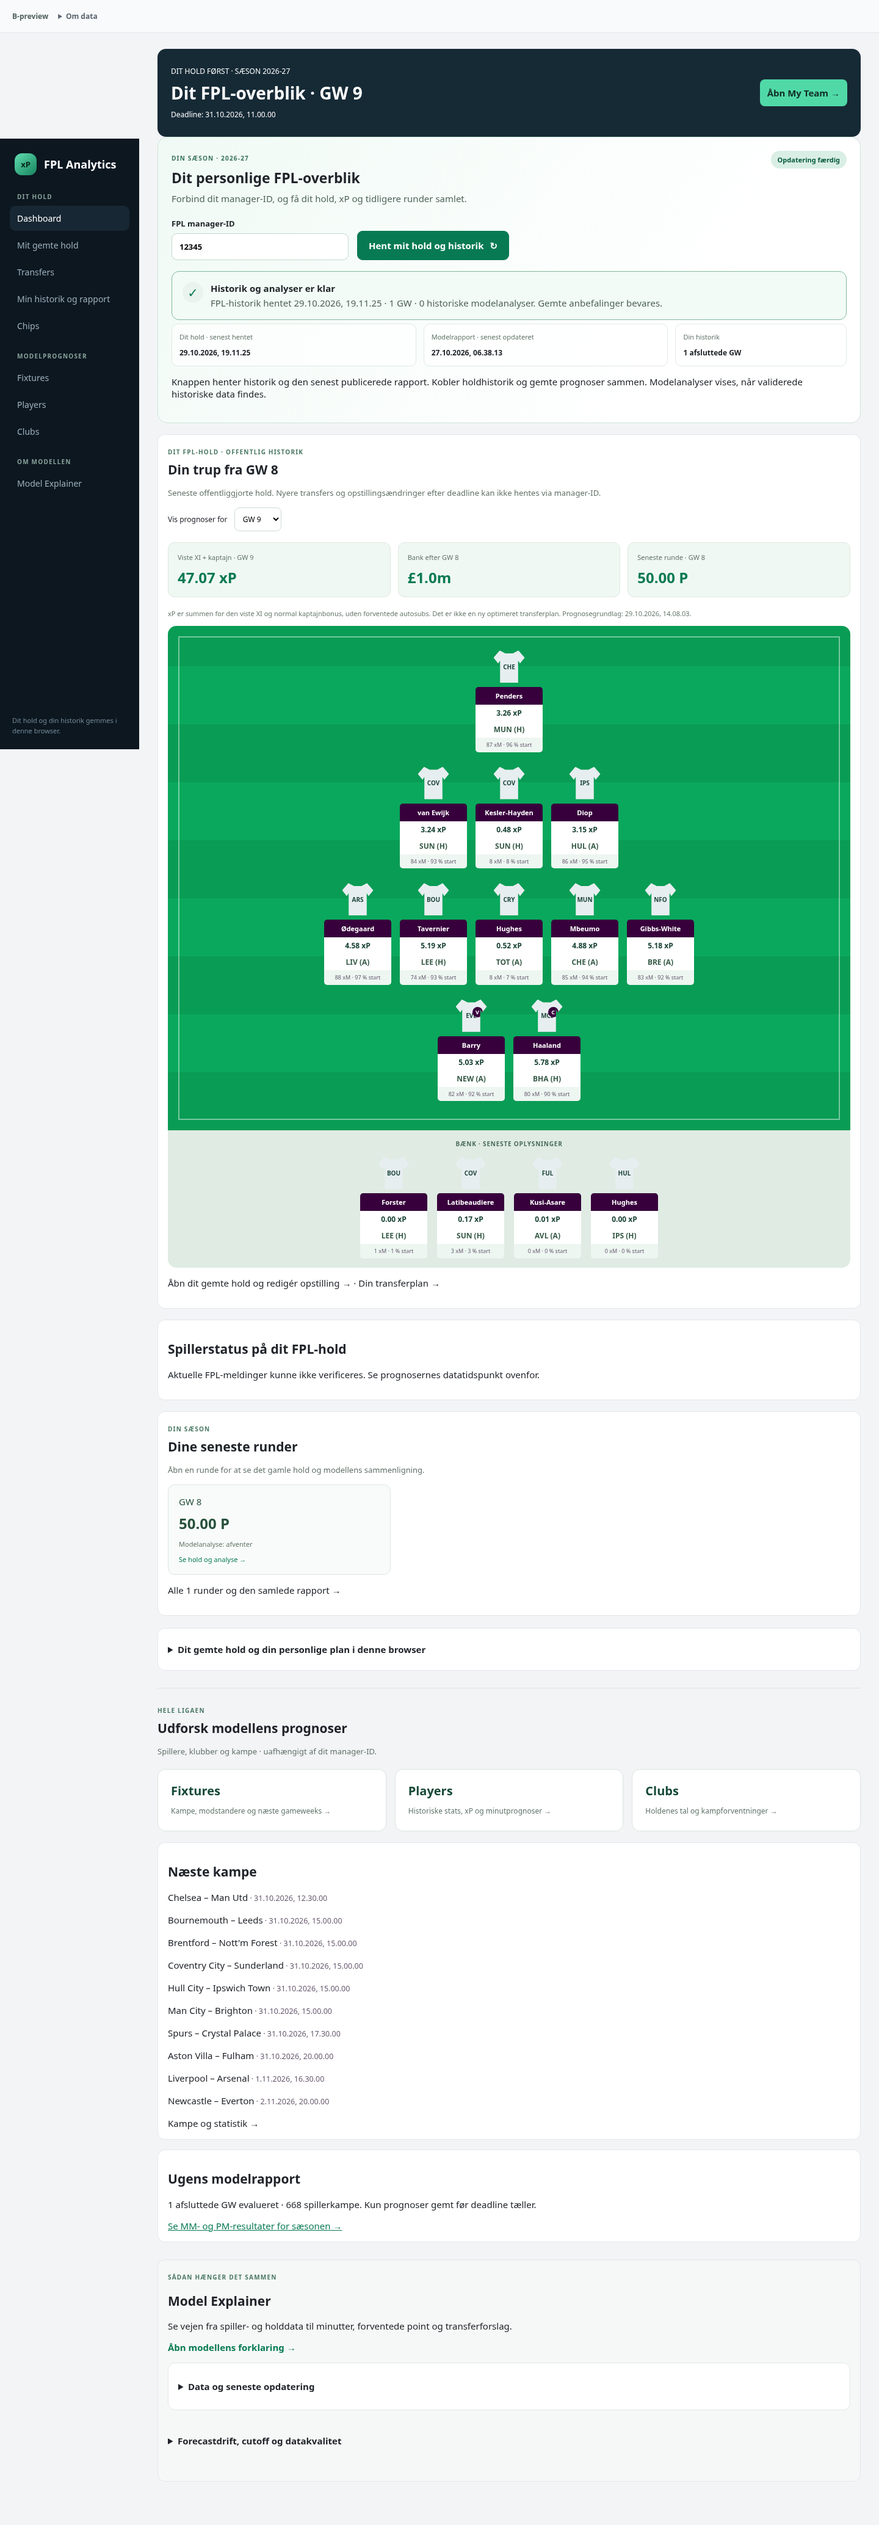
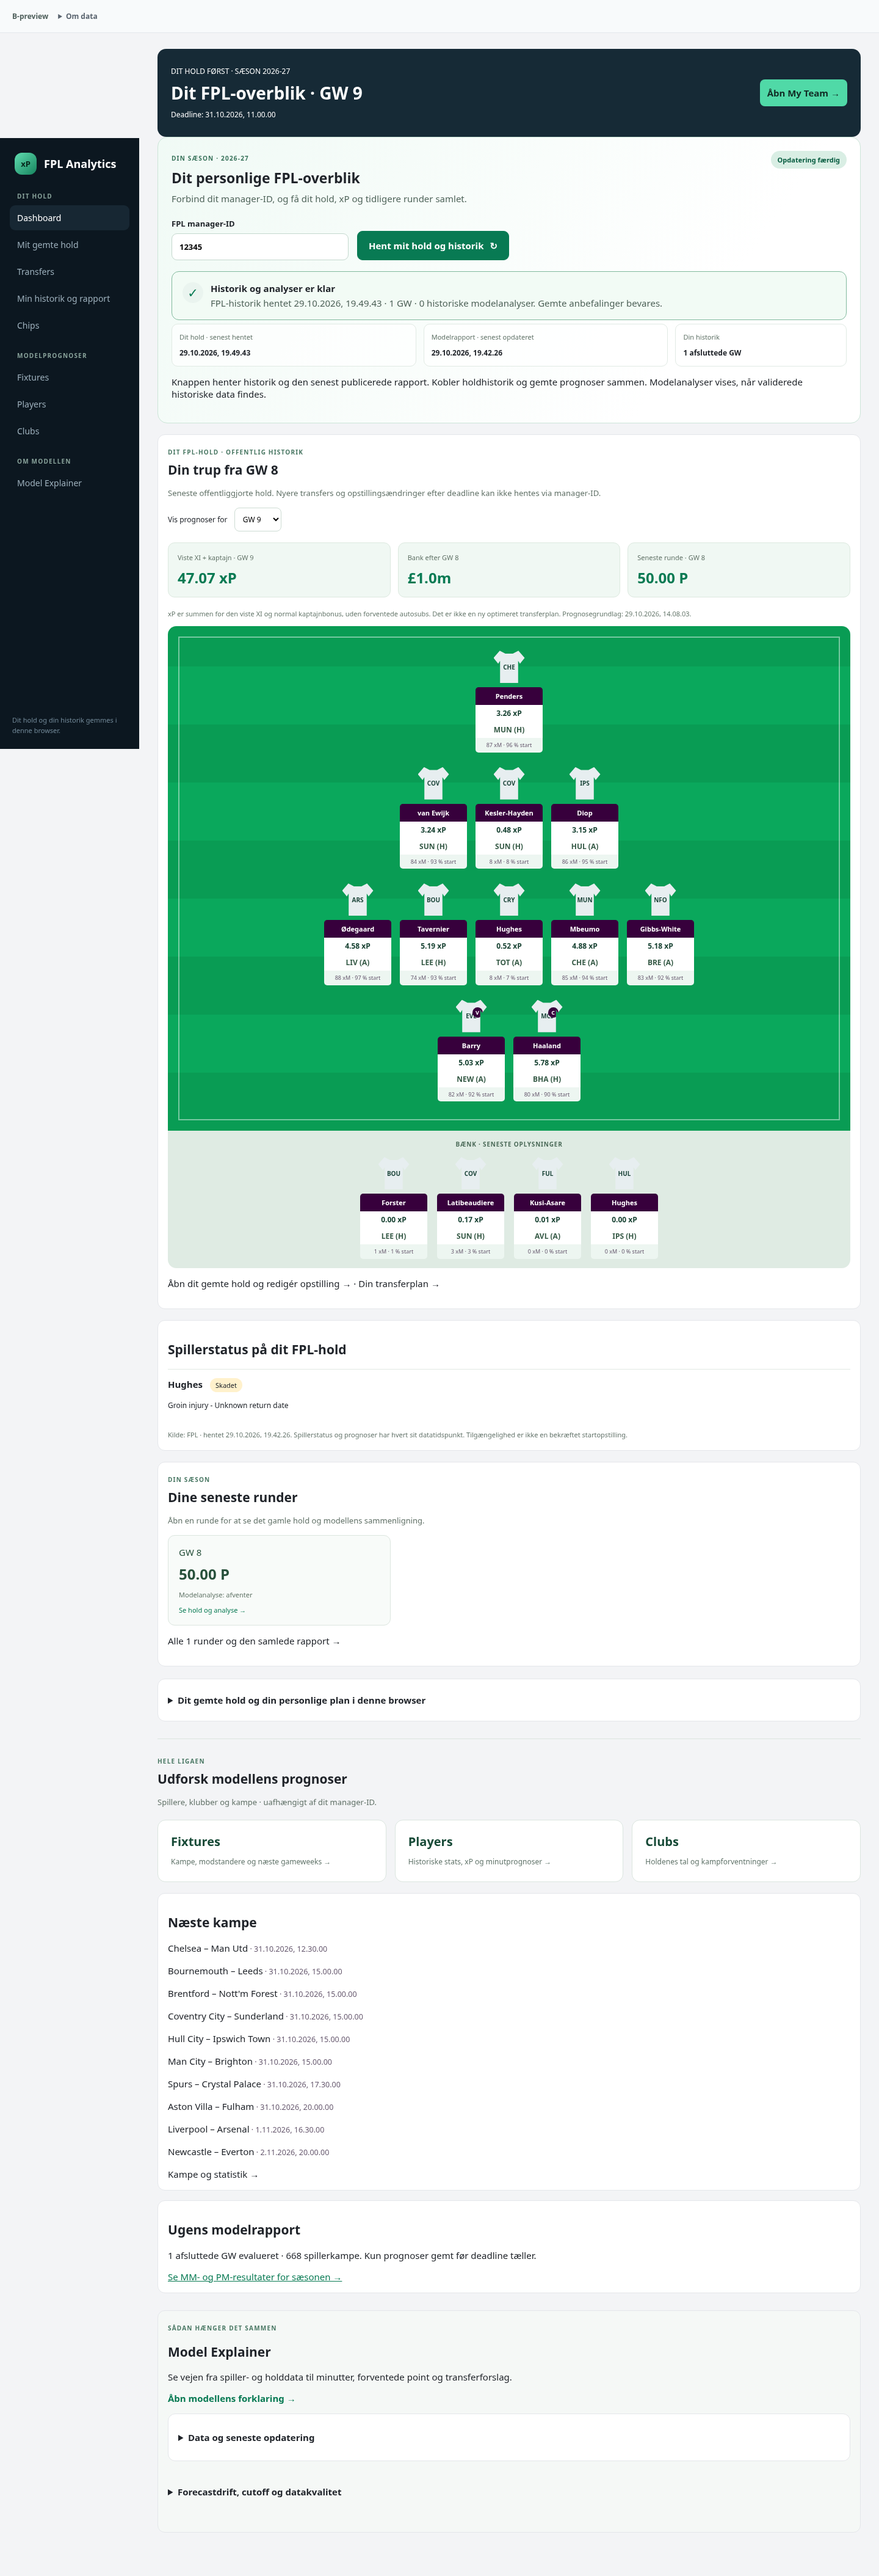
Verify live personal dashboard, full Render history and unchanged production

diff --git a/docs/checkpoints/2026-10-29-personal-first-dashboard.md b/docs/checkpoints/2026-10-29-personal-first-dashboard.md
@@ -21,3 +21,19 @@ Owner activated8047759. Remote history OPTIONS now204 (was404), but /health500 e
 The actual Docker image was built successfully with session CA mounted only for pip; runtime CA mounted read-only. The image's real gunicorn HTTP/CORS service imported eight official GW, three historical analyses,15 fresh owned statuses in8.31s, preserving exact joint-PM scores. Receipt docker-full-http.json. This supersedes the earlier COPY-layout-only limitation. No personal data in image/build context/Git.
 
 Both files prepared on existing Render source branch at2f6b0183e9e9f70c2b4ea28445051e2475d5d768. Owner must activate latest commit again if no automatic deployment. Existing deploy workflow exact adapter guard updated; known absent Render deployment credentials were not retried again. The UI pin remains b8a7a256, unchanged UI maths. GitHub waiting-run blocker remains separate. Do not claim live health/history works until actual remote health and private full job succeed.
+
+## Recovery and second owner deployment
+
+Remote Render health now verifies exact fixed adapter089d276907920a9a68a1bf084fc5faa96a273427e29419fdcc494aa4d6137ff5 and history fingerprint0e8a5a4d98fdd990652b267db7b4b01aedc6ea03cc079d5f9b19c5d6555199af with all original capabilities. Initial500 during rollout resolved; do not ask user for further deployment or logs.
+
+GitHub queue RECOVERED. New main helper release-stalled-preview-slot.yml first verifies exact abandoned run40907419458 is the only active shared Pages publication, then takes existing concurrency group with cancel-in-progress:true to supersede ONLY that abandoned duplicate. No environment controls or assets changed. Successful helper40932870080 cancelled old run, releasing the slot. Guarded normal B publication40932964422 now runs with frozen validated numerical artifact40877596798 and prepared UIb8a7a256. Existing full tests/production-preservation guards retained; wait for actual deploy and verify public sources. Do not use previous 'admin blocked' explanation after this recovery.
+
+Real Render full-history verification retries429 with backoff while an existing private calculation holds its one-worker slot; it does not cancel user computations. Script /workspace/scratch/check-render-full-http.py running. New public-safe proof target render-full-http.json, private result stays outside Git. Publication watch /workspace/scratch/personal-pages-watch.py running. No need to recreate tested dashboard or model.
+
+## DELIVERED: live and verified
+
+Public dashboard now serves UIb8a7a2566240e925bcd0f81900449fe64ae43625 from successful release40932964422. Full Python suite1095 passed64.26s;17 browser reports archived. Actual public desktop/mobile dashboard synthetic regression passed. All8 source UI assets matched,3 numerical preview files byte-identical,88 production files exactly unchanged before/after. Public source/integrity receipts saved in results folder.
+
+Real Render complete private HTTP job PASSED:8 official GW, GW6–8 full reviews,15 fresh official statuses, transfer/chip/bank metadata. All own joint-PM xP/actuals exactly equal prior verified results. Calculation45.67s after initial481.62s waiting for a pre-existing computation; no user's job cancelled. Receipt render-full-http.json. The45.67s excludes queue time and cold start; do not promise8-second Render jobs based on local CPU. Current service one-computation capacity is retained.
+
+No additional manual Render deploy or GitHub admin step is required for this delivery. PublicURL https://pdamkier-del.github.io/fpl-analytics-app/mm-preview/app/overview.html#dashboard. User enters manager-ID and green Hent mit hold og historik. A refresh imports data into THAT user's browser; tests in this workspace cannot write their device's localStorage. Do not imply user's app storage was remotely updated. Unpublished predeadline transfers remain inaccessible through public FPL ID; latest official squad clearly labelled, saved local current squad/plan unchanged. Retrospective model analyses are currently validated only GW6–8, official history all8weeks.

diff --git a/analysis/results/personal-dashboard-20261029/README.md b/analysis/results/personal-dashboard-20261029/README.md
@@ -15,3 +15,5 @@ Validation:
 - No `src` model changes. Local preview numerical files were copied byte-identically from the published verified B preview, not recomputed.
 
 Publication state must be read from the deployment receipts: local checks do not establish that GitHub Pages or Render activated the new version. The existing production model remains unchanged.
+
+Delivered publicly via run40932964422. Full Python suite1095 passed;17 archived browser reports. Public desktop/mobile tested.8 UI source files verified,3 numerical preview files and88 production files unchanged. Real Render full private job passed45.67s after481.62s waiting for an existing calculation; no existing job cancelled. See public-integrity.json, browser-public.json, render-full-http.json and publication-passed.json. No further owner deployment needed.
